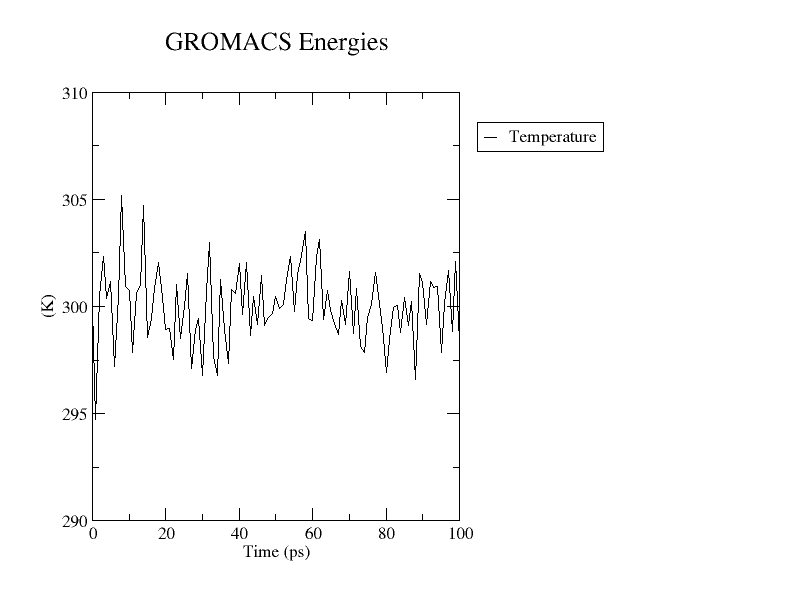
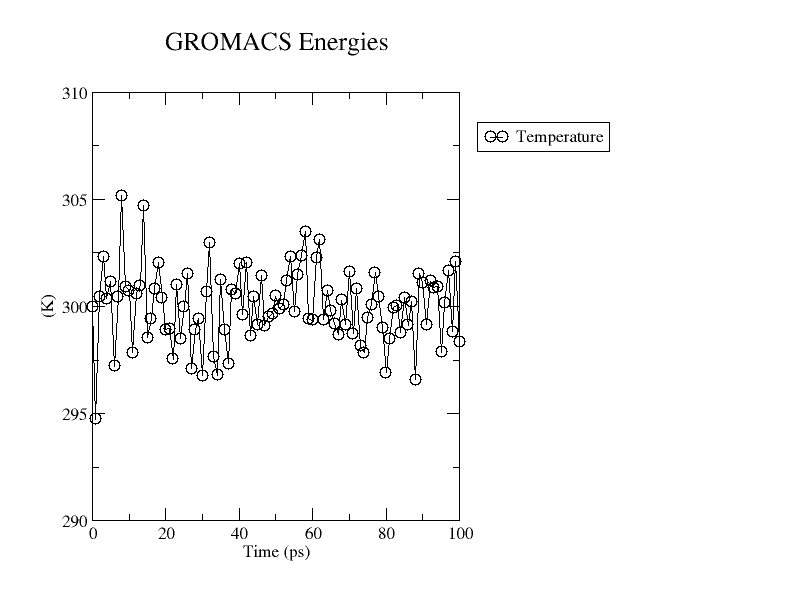
Added circles to the points in the temperature plot
Tony

diff --git a/containers/2_ApplicationSpecific/GROMACS/EXAMPLES.md b/containers/2_ApplicationSpecific/GROMACS/EXAMPLES.md
@@ -1007,8 +1007,8 @@ sample output:
 > -rw-rw-r-- 1 [CCRusername] nogroup 3176 Nov  6 18:02 temperature.xvg
 > ```
 
-The data in temperature.xvg  can be plotted, in CCR's [OnDemand portal](https://ondemand.ccr.buffalo.edu) as per
-the above example for potential.xvg
+The data in temperature.xvg  can be plotted, in CCR's [OnDemand portal](https://ondemand.ccr.buffalo.edu) similar
+to the above example for potential.xvg
 
 e.g. in an OnDemand terminal window
 
@@ -1016,7 +1016,7 @@ e.g. in an OnDemand terminal window
 apptainer run \
  -B /projects:/projects,/scratch:/scratch,/util:/util,/vscratch:/vscratch \
  GROMACS-$(arch).sif \
- xmgrace "temperature.xvg"
+ xmgrace -pexec "s0 symbol 1" "temperature.xvg"
 ```
 
 My test plot looks like this:  
@@ -1260,7 +1260,7 @@ e.g. in an OnDemand terminal window
 apptainer run \
  -B /projects:/projects,/scratch:/scratch,/util:/util,/vscratch:/vscratch \
  GROMACS-$(arch).sif \
- xmgrace "s0 line type 0; s0 symbol 1" "pressure.xvg"
+ xmgrace -pexec "s0 line type 0; s0 symbol 1" "pressure.xvg"
 ```
 
 Add a 10th degree regression line:
